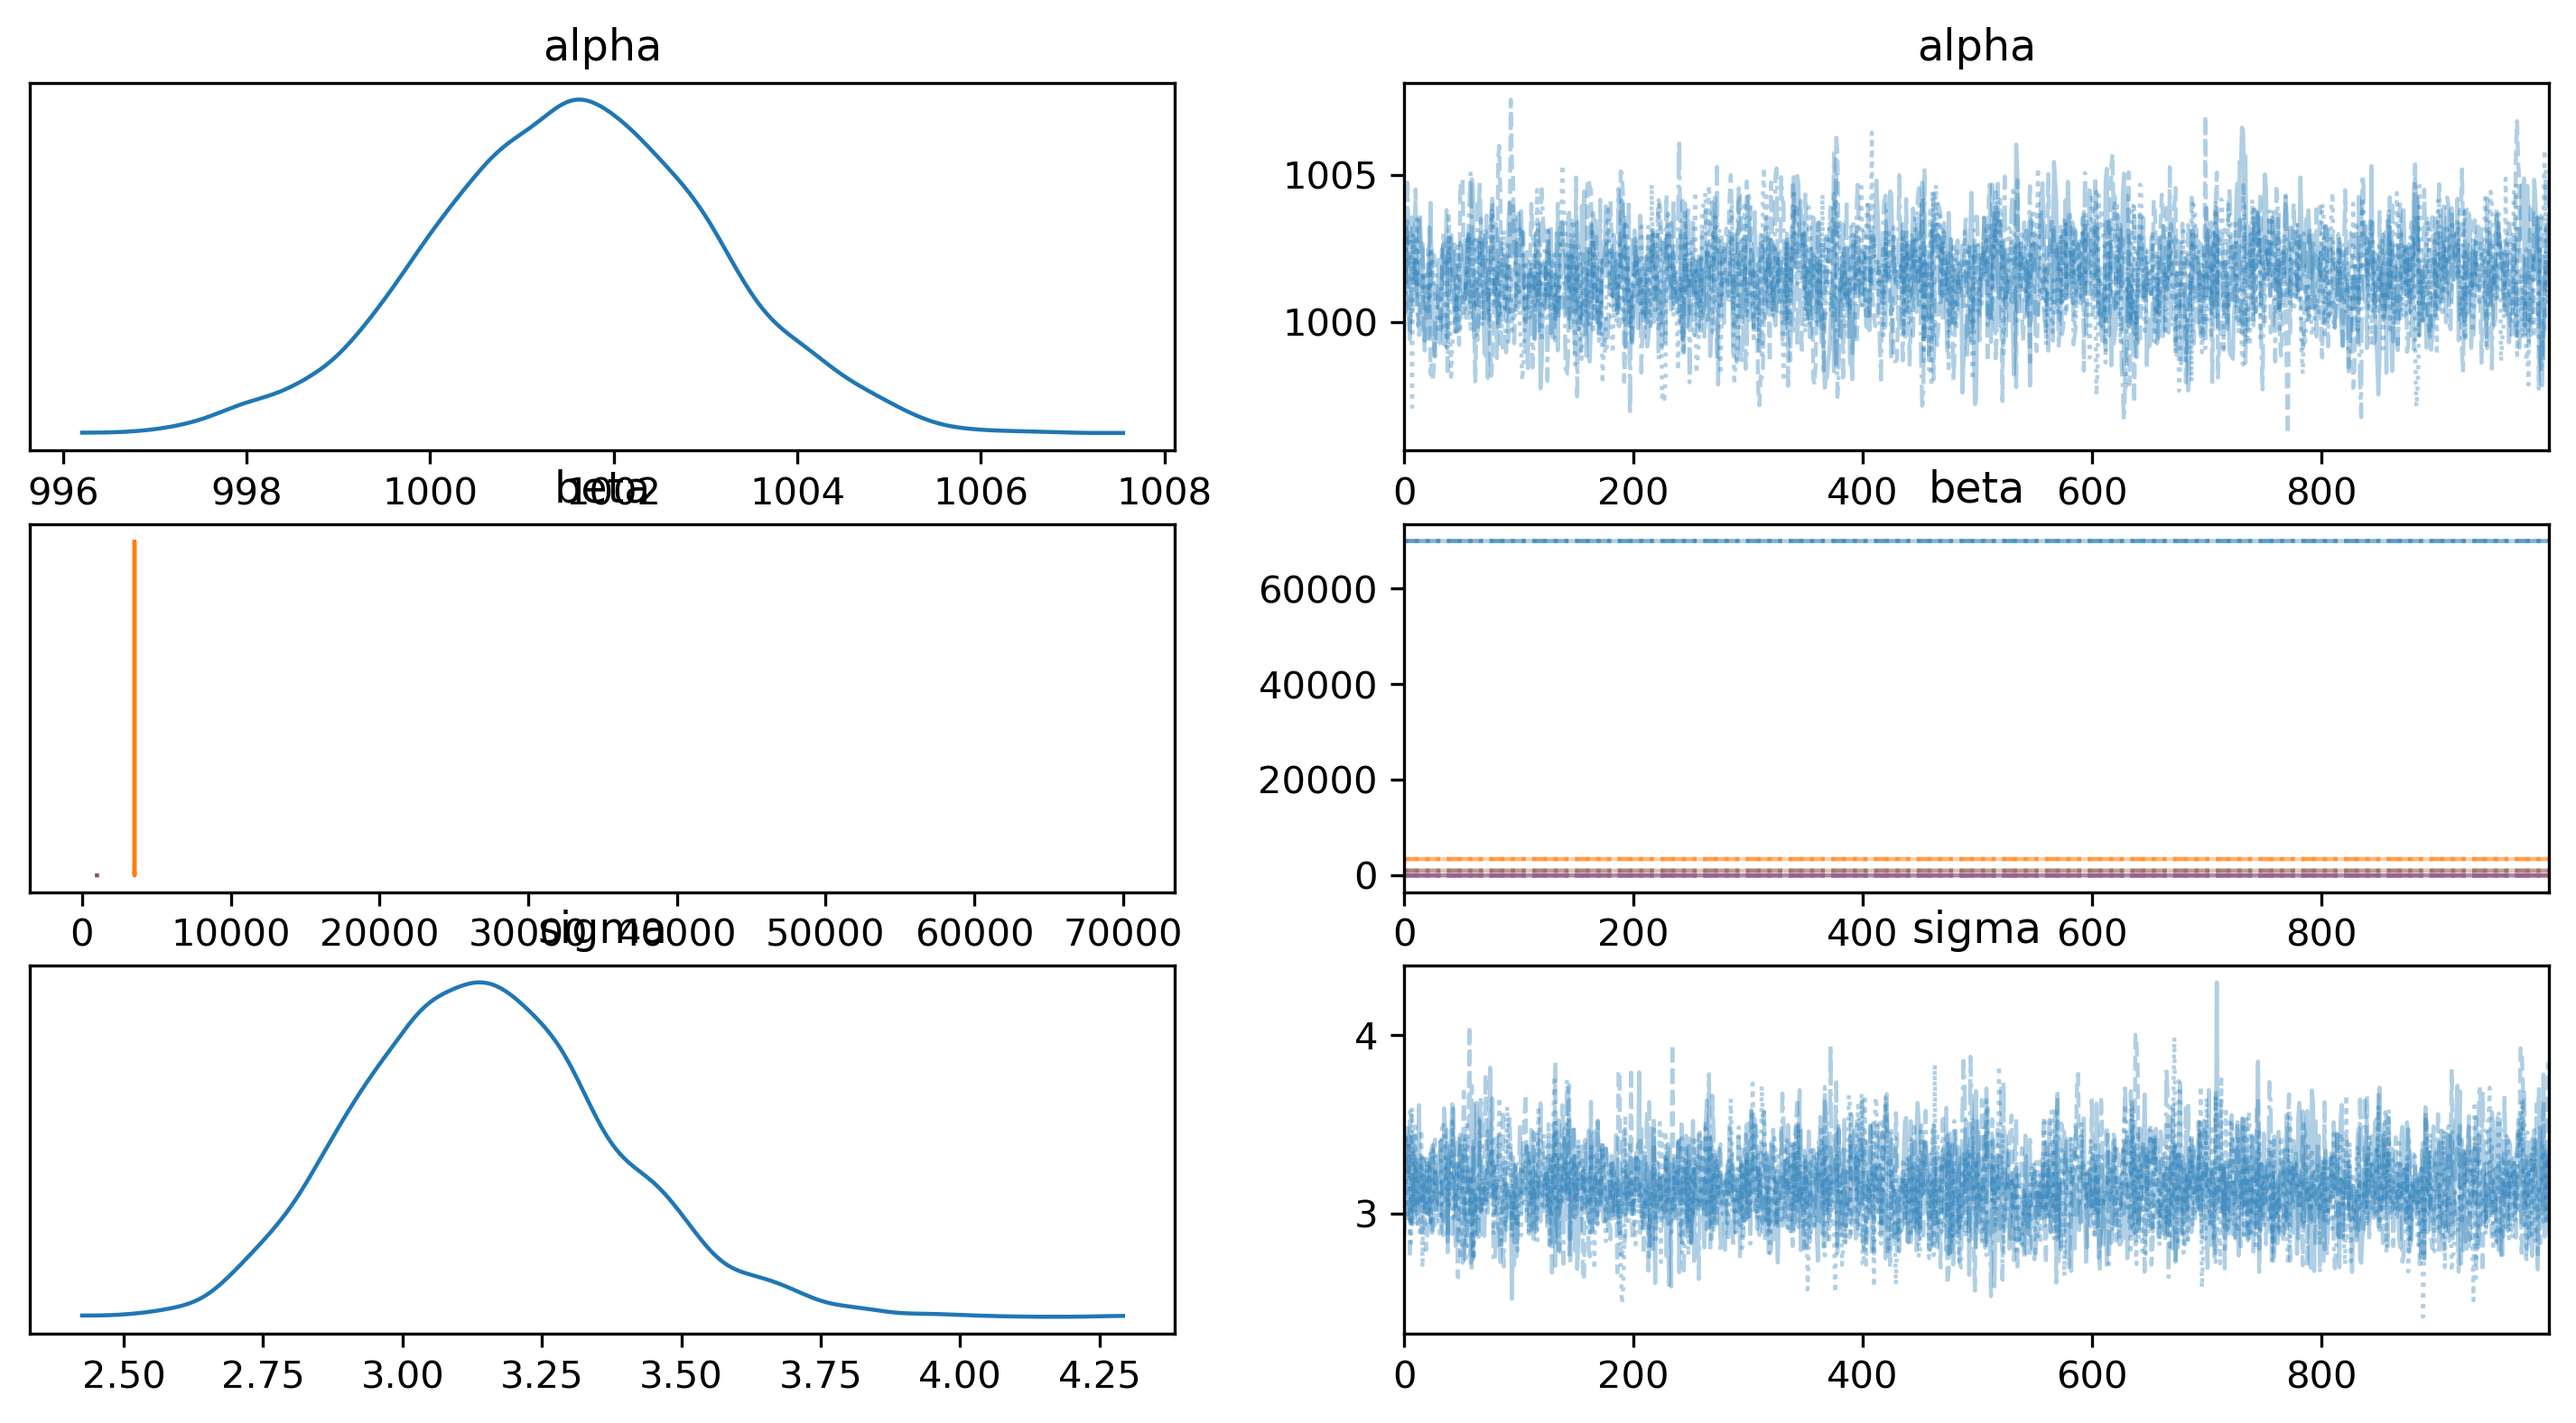
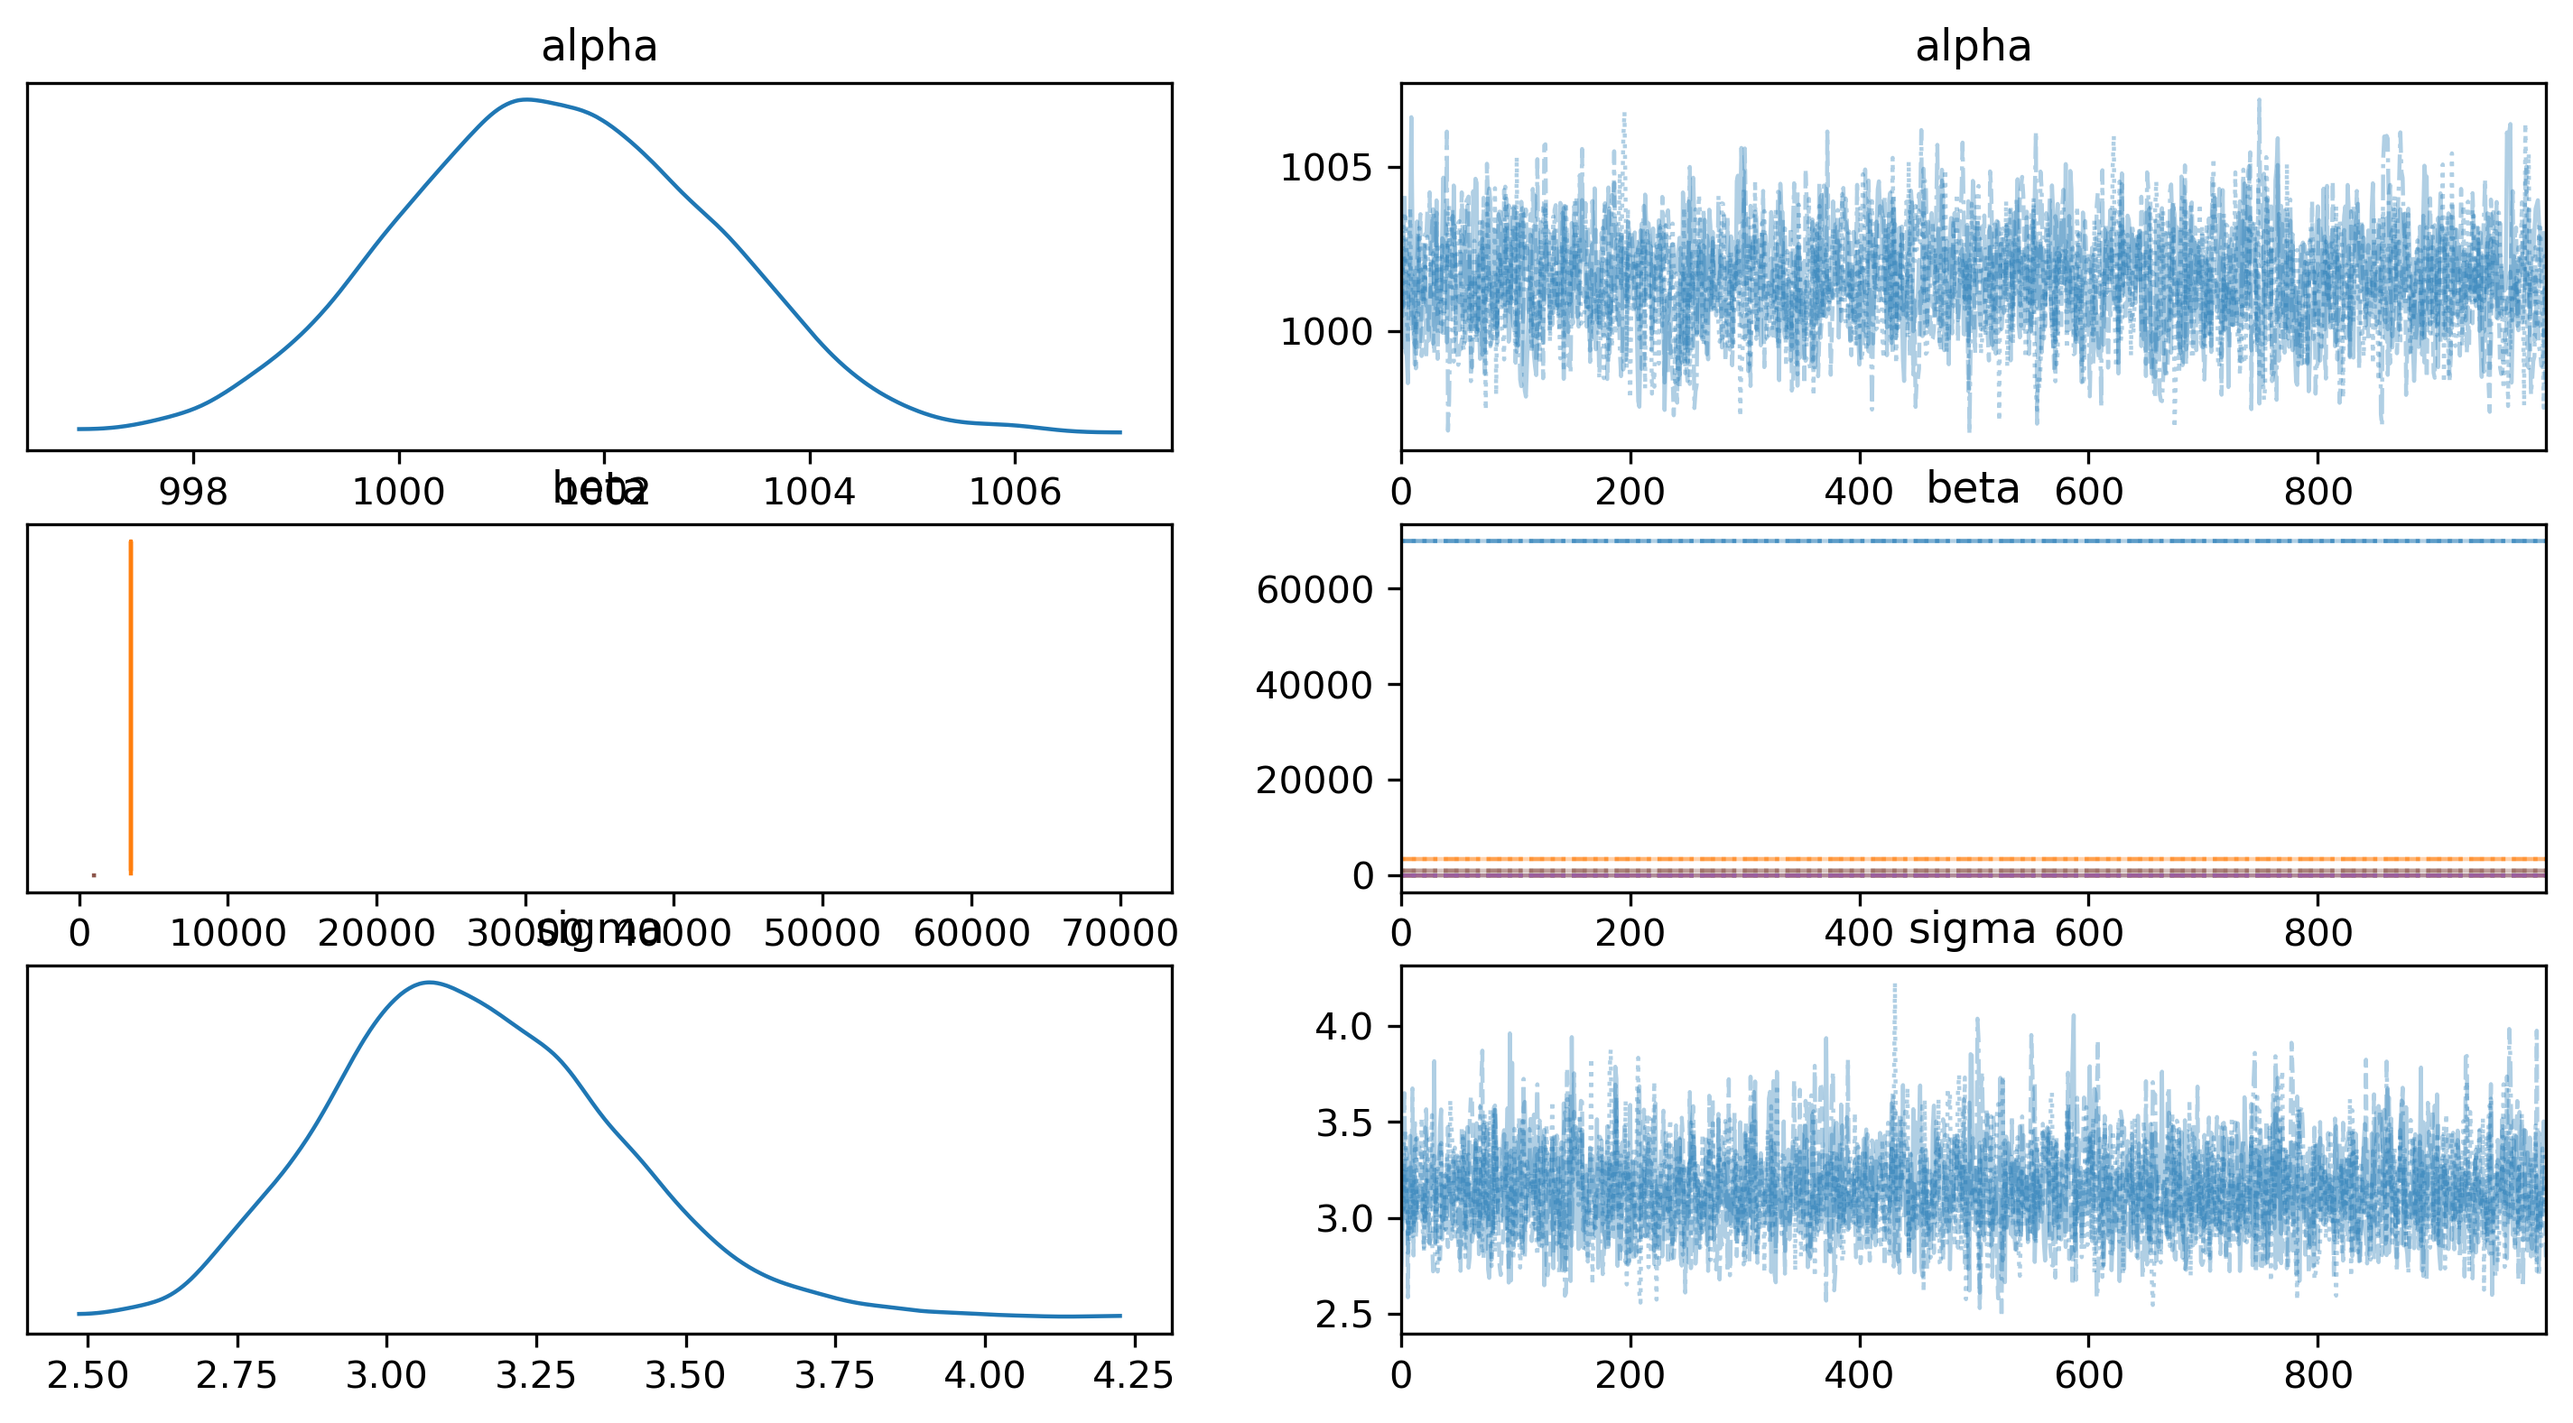
almost all images appear in report.qmd except for milestone 11 photo

diff --git a/writing/report.md b/writing/report.md
@@ -38,12 +38,12 @@ https://www.kaggle.com/datasets/agungpambudi/airline-loyalty-campaign-program-im
 
 This is the first DAG I created.
 
-![Initial Old DAG](../figures/Old_DAG.png)
+![Initial Old DAG](Old_DAG.png)
 
 This is the second DAG I created. I add more variables because I have
 most of these columns in my dataset.
 
-![Second Iteration of Initial Old DAG](../figures/Old_DAG_Updated.png)
+![Second Iteration of Initial Old DAG](Old_DAG_Updated.png)
 
 ## Milestone 4: Identification Strategy
 
@@ -179,15 +179,15 @@ print(f'Slope for loyalty_card_status: {model.coef_[5]}')
 
 # Have you recovered the parameters?
 # Yes
-```
 
-    Intercept: 1001.5413256846368
-    Slope for x: 69999.86275851386
-    Slope for flight_dist: 3499.9999835407984
-    Slope for travel_freq: 5.112035246336143
-    Slope for cust_marketing_strat: 0.8774017286699657
-    Slope for cust_engagement: 2.7190101859602787
-    Slope for loyalty_card_status: 1000.1457705767122
+# Intercept: 1001.5413256846368
+# Slope for x: 69999.86275851386
+# Slope for flight_dist: 3499.9999835407984
+# Slope for travel_freq: 5.112035246336143
+# Slope for cust_marketing_strat: 0.8774017286699657
+# Slope for cust_engagement: 2.7190101859602787
+# Slope for loyalty_card_status: 1000.1457705767122
+```
 
 In this code, a simulated dataset is created using various predictors
 (independent variables) to estimate the Customer Lifetime Value (CLV),
@@ -232,11 +232,11 @@ for p in ax.patches:
                 xytext=(0, 5), textcoords='offset points')
 
 # Save the figure
-plt.savefig('../figures/loyalty_card_distribution_bar_chart.png', dpi=300, bbox_inches='tight')
+plt.savefig('loyalty_card_distribution_bar_chart.png', dpi=300, bbox_inches='tight')
 ```
 
 ![Loyalty Card Status Bar
-Chart](../figures/loyalty_card_distribution_bar_chart.png)
+Chart](loyalty_card_distribution_bar_chart.png)
 
 Most people have an income between roughly \$80,000 and \$125,000. This
 is expected. There are of course some who have higher salaries, hence
@@ -257,28 +257,7 @@ plt.ylabel('Frequency')
 plt.savefig('../figures/salary_histogram.png', dpi=300, bbox_inches='tight')
 ```
 
-![Salary Histogram](../figures/salary_histogram.png)
-
-Most people have an income between roughly \$80,000 and \$125,000. This
-is expected. There are of course some who have higher salaries, hence
-the right skew.
-
-``` python
-# Clean the data by removing null, empty, and negative salary values
-data_clean = data[data['Salary'].notnull() & (data['Salary'] != '')]
-data_clean = data_clean[data_clean['Salary'] >= 0]
-
-# Plot the histogram
-plt.hist(data_clean['Salary'], bins=8, color='skyblue', edgecolor='black')
-plt.title('Histogram of Salary')
-plt.xlabel('Salary')
-plt.ylabel('Frequency')
-
-# Save the figure
-plt.savefig('../figures/salary_histogram.png', dpi=300, bbox_inches='tight')
-```
-
-![Salary Histogram](../figures/salary_histogram.png)
+![Salary Histogram](hist_of_salary.png)
 
 Travel Frequency is how frequently a person travels. I do not have this
 variable in my dataset.
@@ -308,7 +287,7 @@ for p in ax.patches:
 plt.savefig('../figures/enrollment_type_bar_chart.png', dpi=300, bbox_inches='tight')
 ```
 
-![Salary Histogram](../figures/enrollment_type_bar_chart.png)
+![Salary Histogram](enrollment_type_bar_chart.png)
 
 Customer Engagement is how engaged a person is in the airline. I do not
 have this variable in my dataset.
@@ -334,7 +313,7 @@ plt.ylabel('Count')
 plt.savefig('../figures/clv_histogram.png', dpi=300, bbox_inches='tight')
 ```
 
-![Salary Histogram](../figures/clv_histogram.png)
+![Salary Histogram](hist_clv.png)
 
 ## Milestone 7: Estimate Causal Effects
 
@@ -408,7 +387,7 @@ az.plot_trace(trace, combined=True)
 
 
 # Save the figure as a file
-plt.savefig("trace_plot.png", dpi=300, bbox_inches="tight")
+plt.savefig("../figures/trace_plot.png", dpi=300, bbox_inches="tight")
 ```
 
     Initializing NUTS using jitter+adapt_diag...
@@ -422,31 +401,31 @@ Jupyter support
 
 <pre style="white-space:pre;overflow-x:auto;line-height:normal;font-family:Menlo,'DejaVu Sans Mono',consolas,'Courier New',monospace"></pre>
 
-    Sampling 4 chains for 1_000 tune and 1_000 draw iterations (4_000 + 4_000 draws total) took 79 seconds.
+    Sampling 4 chains for 1_000 tune and 1_000 draw iterations (4_000 + 4_000 draws total) took 83 seconds.
 
                  mean    sd    hdi_3%   hdi_97%  mcse_mean  mcse_sd  ess_bulk  \
-    alpha     1001.56  1.57    998.62   1004.47       0.04     0.03   1772.74   
-    beta[0]  69999.86  0.16  69999.56  70000.16       0.00     0.00   2754.81   
-    beta[1]   3500.00  0.00   3500.00   3500.00       0.00     0.00   3143.36   
-    beta[2]      5.11  0.13      4.87      5.34       0.00     0.00   2605.21   
-    beta[3]      0.87  0.23      0.42      1.29       0.00     0.00   2878.09   
-    beta[4]      2.72  0.12      2.51      2.95       0.00     0.00   3342.18   
-    beta[5]   1000.14  0.65    998.97   1001.37       0.01     0.01   3524.28   
-    sigma        3.15  0.24      2.70      3.58       0.00     0.00   3509.32   
+    alpha     1001.52  1.54    998.66   1004.35       0.04     0.02   1895.57   
+    beta[0]  69999.86  0.16  69999.57  70000.16       0.00     0.00   2956.39   
+    beta[1]   3500.00  0.00   3500.00   3500.00       0.00     0.00   3215.75   
+    beta[2]      5.11  0.12      4.89      5.35       0.00     0.00   2989.31   
+    beta[3]      0.88  0.23      0.45      1.32       0.00     0.00   3187.06   
+    beta[4]      2.72  0.12      2.49      2.93       0.00     0.00   2847.99   
+    beta[5]   1000.14  0.67    998.85   1001.37       0.01     0.01   3510.58   
+    sigma        3.15  0.23      2.71      3.57       0.00     0.00   2978.58   
 
              ess_tail  r_hat  
-    alpha     2003.63    1.0  
-    beta[0]   2829.75    1.0  
-    beta[1]   2702.17    1.0  
-    beta[2]   2691.32    1.0  
-    beta[3]   2849.16    1.0  
-    beta[4]   2629.37    1.0  
-    beta[5]   2999.68    1.0  
-    sigma     2894.80    1.0  
+    alpha     2030.87    1.0  
+    beta[0]   2981.03    1.0  
+    beta[1]   2555.00    1.0  
+    beta[2]   2569.18    1.0  
+    beta[3]   2590.51    1.0  
+    beta[4]   2245.87    1.0  
+    beta[5]   2976.41    1.0  
+    sigma     2792.04    1.0  
 
-![](report_files/figure-commonmark/cell-8-output-6.png)
+![](report_files/figure-commonmark/cell-7-output-6.png)
 
-![trace plot](../figures/trace_plot.png)
+![trace plot](trace_plot.png)
 
 ## Milestone 8: Intermediate Presentation
 
@@ -467,37 +446,37 @@ Software. I was testing how desirable different package deals (with
 specified benefits) were for different loyalty cards. I got 33
 responses. Here are my results:
 
-![DAG](../figures/Airline%20Loyalty%20Conjoint%20Survey%20-%20Ever%20been%20on%20a%20plane_%20Chart.png)
+![DAG](Airline%20Loyalty%20Conjoint%20Survey%20-%20Ever%20been%20on%20a%20plane_%20Chart.png)
 
-![DAG](../figures/Airline%20Loyalty%20Conjoint%20Survey%20-%20Employed%20rn_%20Chart.png)
+![DAG](Airline%20Loyalty%20Conjoint%20Survey%20-%20Employed%20rn_%20Chart.png)
 
-![DAG](../figures/Airline%20Loyalty%20Conjoint%20Survey%20-%2018_plus_%20Chart.png)
+![DAG](Airline%20Loyalty%20Conjoint%20Survey%20-%2018_plus_%20Chart.png)
 
-![DAG](../figures/Airline%20Loyalty%20Conjoint%20Survey%20-%20How%20often%20do%20you%20fly_%20Chart.png)
+![DAG](Airline%20Loyalty%20Conjoint%20Survey%20-%20How%20often%20do%20you%20fly_%20Chart.png)
 
-![DAG](../figures/Airline%20Loyalty%20Conjoint%20Survey%20-%20Travel%20Reason_%20Chart.png)
+![DAG](Airline%20Loyalty%20Conjoint%20Survey%20-%20Travel%20Reason_%20Chart.png)
 
-![DAG](../figures/Loyalty%20Card%20Package%20Options%20-%20Card%20Type%20Chart.png)
+![DAG](Loyalty%20Card%20Package%20Options%20-%20Card%20Type%20Chart.png)
 
-![DAG](../figures/Loyalty%20Card%20Package%20Options%20-%20Benefit%201%20Chart.png)
+![DAG](Loyalty%20Card%20Package%20Options%20-%20Benefit%201%20Chart.png)
 
-![DAG](../figures/Loyalty%20Card%20Package%20Options%20-%20Benefit%202%20Chart.png)
+![DAG](Loyalty%20Card%20Package%20Options%20-%20Benefit%202%20Chart.png)
 
-![DAG](../figures/Loyalty%20Card%20Package%20Options%20-%20Price%20Chart.png)
+![DAG](Loyalty%20Card%20Package%20Options%20-%20Price%20Chart.png)
 
-![DAG](../figures/Loyalty%20Card%20Package%20Options%20-%20Attribute%20importance%20Chart.png)
+![DAG](Loyalty%20Card%20Package%20Options%20-%20Attribute%20importance%20Chart.png)
 
-![DAG](../figures/Airline%20Loyalty%20Conjoint%20Survey%20-%20Buy%20a%20card_%20Chart.png)
+![DAG](Airline%20Loyalty%20Conjoint%20Survey%20-%20Buy%20a%20card_%20Chart.png)
 
-![DAG](../figures/Airline%20Loyalty%20Conjoint%20Survey%20-%20Yearly%20Income%20Chart.png)
+![DAG](Airline%20Loyalty%20Conjoint%20Survey%20-%20Yearly%20Income%20Chart.png)
 
-![DAG](../figures/Airline%20Loyalty%20Conjoint%20Survey%20-%20Education%20Level%20Chart.png)
+![DAG](Airline%20Loyalty%20Conjoint%20Survey%20-%20Education%20Level%20Chart.png)
 
-![DAG](../figures/Airline%20Loyalty%20Conjoint%20Survey%20-%20Age%20Chart.png)
+![DAG](Airline%20Loyalty%20Conjoint%20Survey%20-%20Age%20Chart.png)
 
-![DAG](../figures/Airline%20Loyalty%20Conjoint%20Survey%20-%20Gender%20Chart.png)
+![DAG](Airline%20Loyalty%20Conjoint%20Survey%20-%20Gender%20Chart.png)
 
-![DAG](../figures/Airline%20Loyalty%20Conjoint%20Survey%20-%20Married_%20Chart.png)
+![DAG](Airline%20Loyalty%20Conjoint%20Survey%20-%20Married_%20Chart.png)
 
 ## Milestone 10: Implement Diff-in-Diff Strategy
 
@@ -614,7 +593,7 @@ A few changes I made:
 
 - I updated my DAG along the way.
 
-![DAG](../figures/DAG_CLV.jpg)
+![DAG](DAG_CLV.jpg)
 
 ## Milestone 12: Matching Strategy
 
@@ -638,3 +617,7 @@ I created my final presentation!
 
 I finished my report and created my GitHUb page to represent my
 portfolio!
+
+I created my DAG in Dagitty so that it looked professional.
+
+![Dagitty DAG](DagittyDAG.png)
